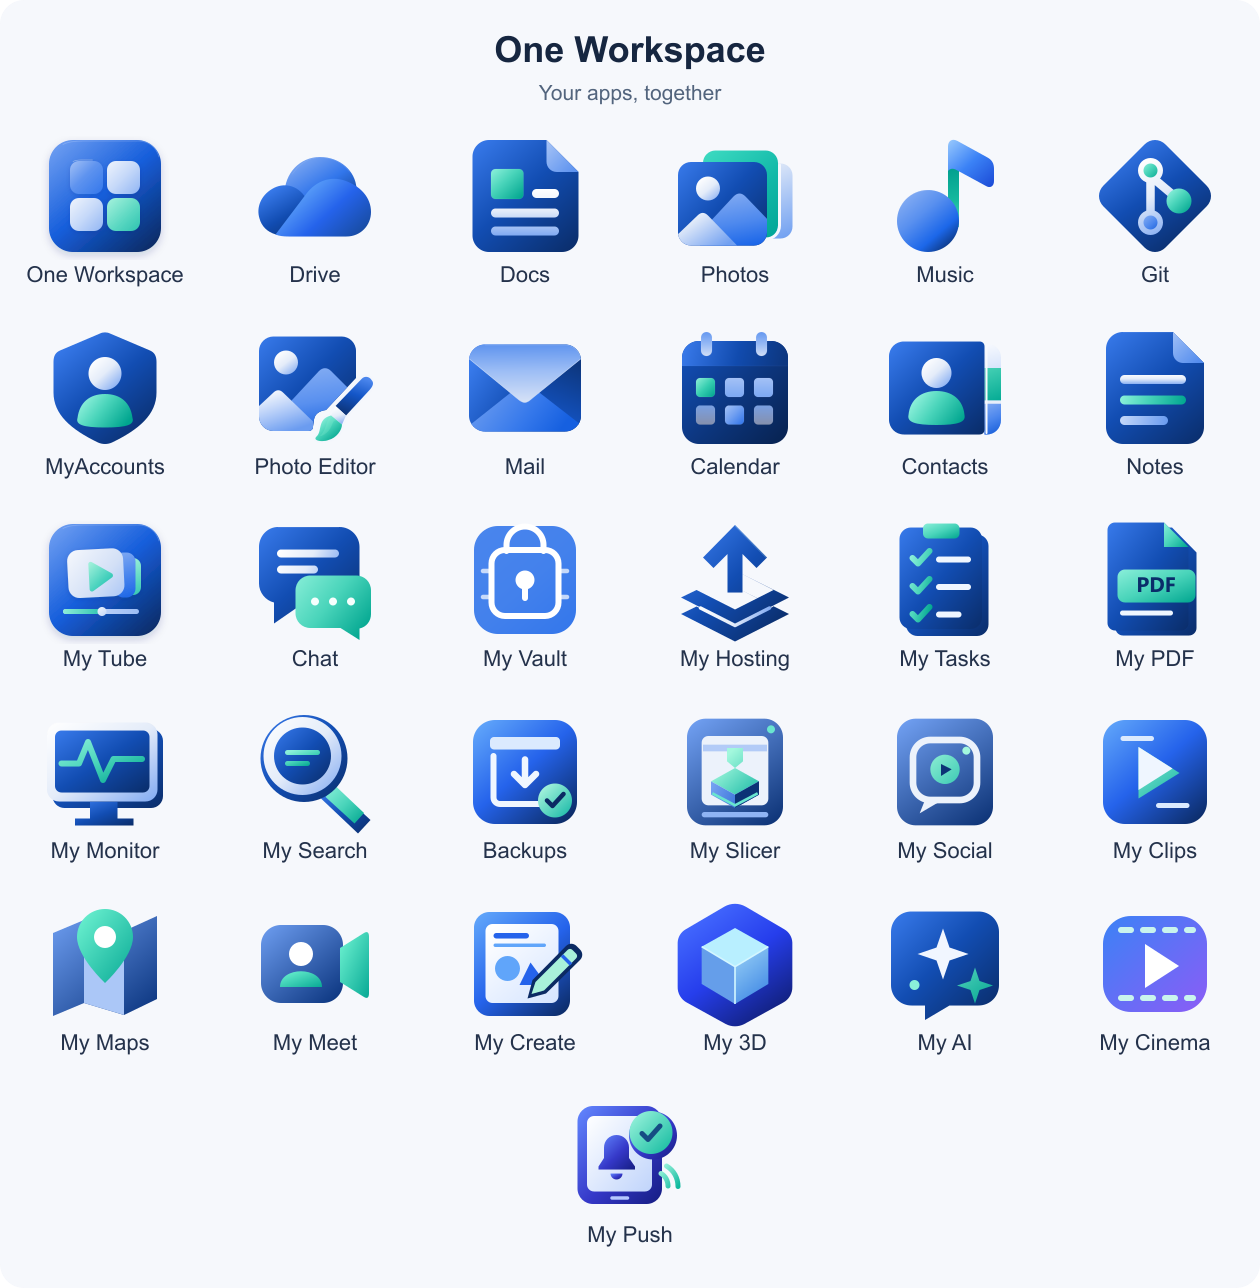
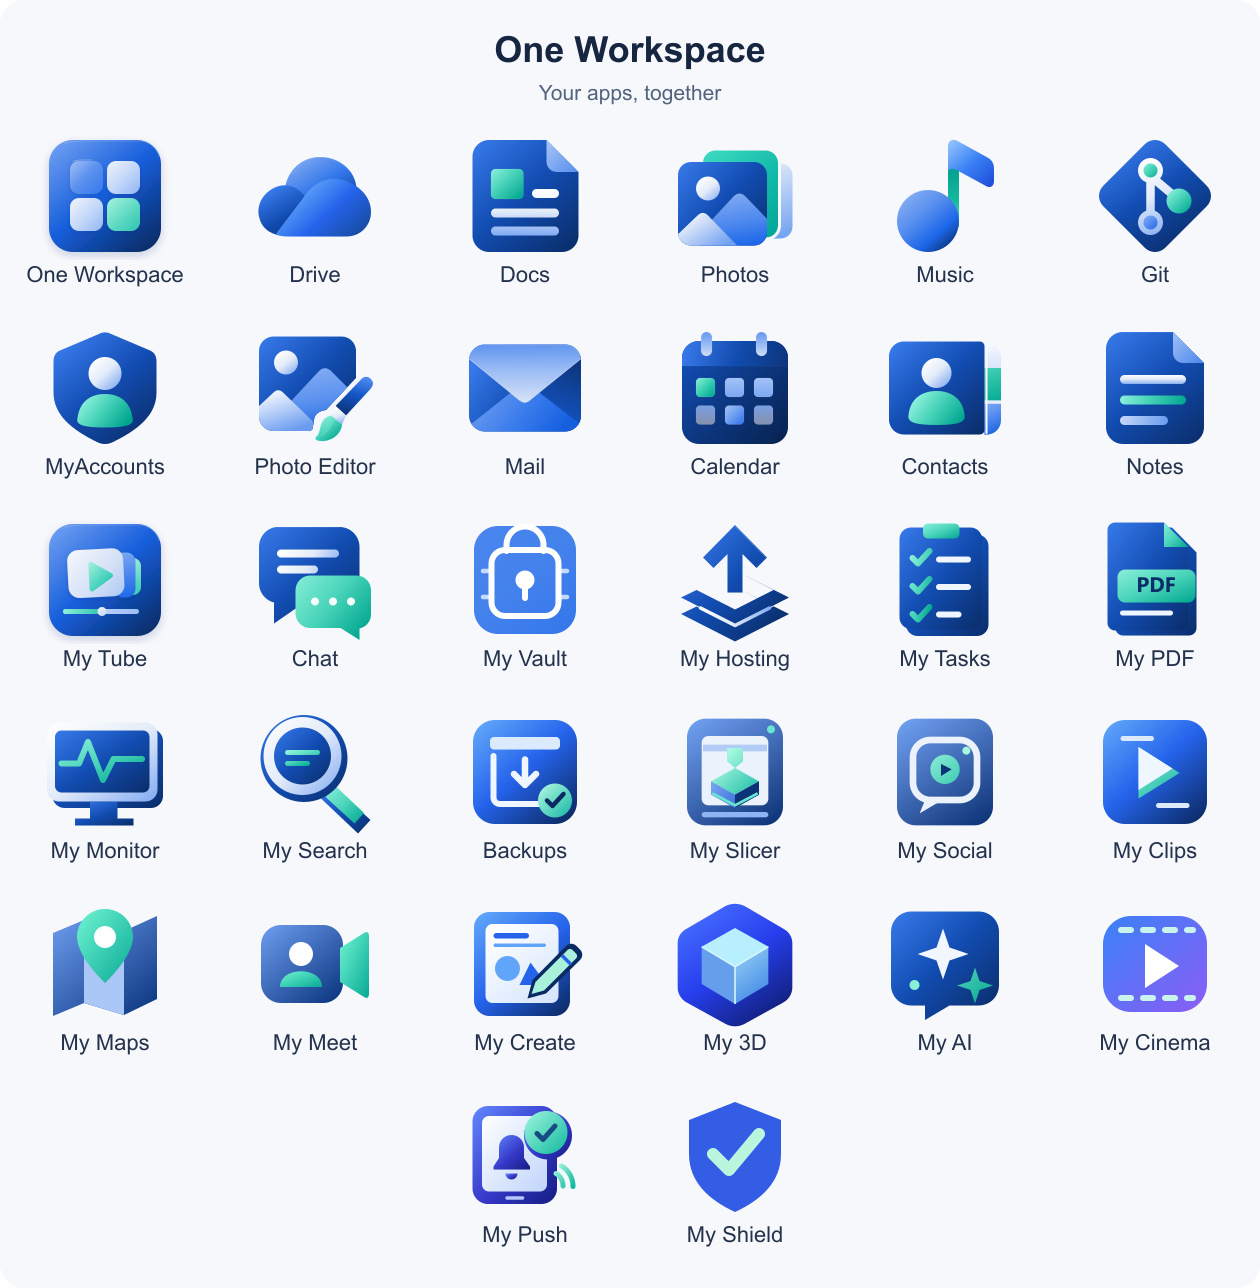
Integrate My Shield with Workspace launch, OneAccount and protected updates

Changed region(s): [[0.3714, 0.8385, 0.619, 0.9627]]

diff --git a/docs/branding/index.html b/docs/branding/index.html
@@ -2,6 +2,6 @@
 <html lang="en"><head><meta charset="utf-8"><meta name="viewport" content="width=device-width,initial-scale=1"><title>One Workspace logos</title><link rel="icon" href="../../internal/branding/icons/one_workspace.svg"><style>
 *{box-sizing:border-box}body{margin:0;background:#f4f6fb;color:#17233b;font:16px system-ui,sans-serif}main{max-width:1180px;margin:40px auto;padding:0 26px}header{display:flex;gap:20px;align-items:center;margin-bottom:32px}header img{width:72px;height:72px}h1{font-size:32px;margin:0 0 8px;letter-spacing:-1px}p{margin:0;color:#65718a}.grid{display:grid;grid-template-columns:repeat(4,1fr);gap:20px}article{background:white;border:1px solid #dfe5ef;border-radius:18px;overflow:hidden}h2{font-size:16px;margin:20px}.samples{display:flex;align-items:center;justify-content:center;gap:18px;height:136px;background:repeating-conic-gradient(#edf0f6 0% 25%,white 0% 50%) 50%/20px 20px}.samples img{width:80px;height:80px}.dark{background:#11182a}.small{display:flex;align-items:center;gap:14px;padding:20px;color:#7b879b;font-size:12px}.small img{flex:none}@media(max-width:850px){.grid{grid-template-columns:repeat(2,1fr)}}@media(max-width:450px){.grid{grid-template-columns:1fr}}
 </style></head><body><main><header><img src="../../internal/branding/icons/one_workspace.svg" alt=""><div><h1>One Workspace</h1><p>The complete app collection · shared blue artwork</p></div></header><div class="grid" id="logos"></div></main><script>
-const apps=[["one_workspace","One Workspace"],["my_drive","Drive"],["my_office","Docs"],["my_photos","Photos"],["my_music","Music"],["my_git","Git"],["my_accounts","MyAccounts"],["photo_editor","Photo Editor"],["my_mail","Mail"],["my_calendar","Calendar"],["my_contacts","Contacts"],["my_notes","Notes"],["my_tube","My Tube"],["my_chat","Chat"],["my_vault","My Vault"],["my_hosting","My Hosting"],["my_tasks","My Tasks"],["my_pdf","My PDF"],["my_monitor","My Monitor"],["my_search","My Search"],["backups","Backups"],["my_slicer","My Slicer"],["my_social","My Social"],["my_clips","My Clips"],["my_maps","My Maps"],["my_meet","My Meet"],["my_create","My Create"],["my_3d","My 3D"],["my_ai","My AI"],["my_cinema","My Cinema"],["my_push","My Push"]];
+const apps=[["one_workspace","One Workspace"],["my_drive","Drive"],["my_office","Docs"],["my_photos","Photos"],["my_music","Music"],["my_git","Git"],["my_accounts","MyAccounts"],["photo_editor","Photo Editor"],["my_mail","Mail"],["my_calendar","Calendar"],["my_contacts","Contacts"],["my_notes","Notes"],["my_tube","My Tube"],["my_chat","Chat"],["my_vault","My Vault"],["my_hosting","My Hosting"],["my_tasks","My Tasks"],["my_pdf","My PDF"],["my_monitor","My Monitor"],["my_search","My Search"],["backups","Backups"],["my_slicer","My Slicer"],["my_social","My Social"],["my_clips","My Clips"],["my_maps","My Maps"],["my_meet","My Meet"],["my_create","My Create"],["my_3d","My 3D"],["my_ai","My AI"],["my_cinema","My Cinema"],["my_push","My Push"],["my_shield","My Shield"]];
 document.querySelector('#logos').innerHTML=apps.map(([file,name])=>`<article><h2>${name}</h2><div class="samples"><img src="../../internal/branding/icons/${file}.svg" alt="${name}"></div><div class="samples dark"><img src="../../internal/branding/icons/${file}.svg" alt=""></div><div class="small"><img src="${file}-32.png" width="16" height="16" alt=""><img src="${file}-32.png" width="24" height="24" alt=""><img src="${file}-32.png" width="32" height="32" alt=""><span>16 · 24 · 32</span></div></article>`).join('');
 </script></body></html>

diff --git a/internal/suite/shield_test.go b/internal/suite/shield_test.go
@@ -1,0 +1,45 @@
+package suite
+
+import (
+	"path/filepath"
+	"strings"
+	"testing"
+
+	"github.com/oneworkspacestudio/one-workspace/internal/branding"
+	"github.com/oneworkspacestudio/one-workspace/internal/catalog"
+)
+
+func TestShieldManagedOwnerAndStorageContract(t *testing.T) {
+	a := catalog.App{ID: "shield", Name: "My Shield", Kind: "process", Package: "shield", Executable: "MyShield.exe", Port: 9022, Route: "/shield", OIDC: true, Callback: "/shield/auth/callback", Args: []string{"--data", "${DATA}/shield", "--listen", "127.0.0.1:${PORT}", "--origin", "${ORIGIN}/shield", "--no-browser"}}
+	c := NewConfig(Request{Programs: filepath.Join(t.TempDir(), "Programs"), Data: filepath.Join(t.TempDir(), "Private"), Files: filepath.Join(t.TempDir(), "Files"), Port: 23900, Mode: "local"}, catalog.Catalog{Apps: []catalog.App{a}})
+	c.Owner = "synthetic-owner-subject"
+	a = c.Catalog.Apps[0]
+	if a.Port != 23932 || !foundationApp("shield") || appWorkingDir(c, "shield") != filepath.Join(c.Data, "shield") || !knownUpdateStorageProfile("shield") {
+		t.Fatal("Shield is not a managed, separately stored application")
+	}
+	paths := appUpdatePrivatePaths("shield")
+	if len(paths) != 1 || paths[0] != "shield" || preservedUpdateData("shield/state.sqlite") || preservedUpdateData("shield/state.sqlite-wal") {
+		t.Fatal("Shield state must remain inside verified update recovery")
+	}
+	rt := &Runtime{Config: c, Secrets: Secrets{Clients: map[string]Client{"shield": {ID: "synthetic-shield", Secret: "synthetic-secret"}}}}
+	cmd := rt.command(a)
+	for _, want := range []string{"WORKSPACE_OWNER_SUBJECT=" + c.Owner, "WORKSPACE_HOME_URL=" + c.Origin, "WORKSPACE_OIDC_ISSUER=" + c.Issuer, "WORKSPACE_OIDC_REDIRECT_URI=" + c.Origin + "/shield/auth/callback", "MYSHIELD_LAB=0"} {
+		found := false
+		for _, got := range cmd.Env {
+			found = found || got == want
+		}
+		if !found {
+			t.Fatal("missing managed identity/environment contract")
+		}
+	}
+	if !strings.Contains(strings.Join(cmd.Args, " "), c.Origin+"/shield") || cmd.Dir != filepath.Join(c.Data, "shield") {
+		t.Fatal("managed origin or working directory is wrong")
+	}
+	p := &Portal{rt: rt}
+	if len(p.tiles(false)) != 0 || len(p.tiles(true)) != 2 {
+		t.Fatal("host security controls must be visible only to the owner, alongside Backups")
+	}
+	if branding.Icon("shield") == branding.Icon("unknown") {
+		t.Fatal("Shield icon not registered")
+	}
+}

diff --git a/internal/suite/four_apps_test.go b/internal/suite/four_apps_test.go
@@ -58,17 +58,17 @@ func TestFoundationSignOutRevokesEachCapturedBrowserSession(t *testing.T) {
 	defer server.Close()
 	_, port, _ := net.SplitHostPort(strings.TrimPrefix(server.URL, "http://"))
 	n, _ := strconv.Atoi(port)
-	rt := &Runtime{Config: Config{Origin: "http://localhost:29000", Catalog: catalog.Catalog{Apps: []catalog.App{{ID: "tasks", Port: n}, {ID: "pdf", Port: n}}}}}
-	p := &Portal{rt: rt, sessions: map[string]session{"fixture-portal": {Subject: "owner", Expires: time.Now().Add(time.Hour), AppSessions: map[string]string{"tasks": strings.Repeat("a", 96), "pdf": strings.Repeat("b", 96)}}}}
+	rt := &Runtime{Config: Config{Origin: "http://localhost:29000", Catalog: catalog.Catalog{Apps: []catalog.App{{ID: "tasks", Port: n}, {ID: "pdf", Port: n}, {ID: "shield", Port: n}}}}}
+	p := &Portal{rt: rt, sessions: map[string]session{"fixture-portal": {Subject: "owner", Expires: time.Now().Add(time.Hour), AppSessions: map[string]string{"tasks": strings.Repeat("a", 96), "pdf": strings.Repeat("b", 96), "shield": strings.Repeat("c", 96)}}}}
 	r := httptest.NewRequest("POST", "http://localhost:29000/auth/logout", nil)
 	r.AddCookie(&http.Cookie{Name: "workspace_session", Value: "fixture-portal"})
 	p.closeFoundationSessions(r)
-	if count != 2 {
+	if count != 3 {
 		t.Fatal("sessions not revoked", count)
 	}
 	w := httptest.NewRecorder()
 	clearAppCookies(w, r, false)
-	for _, id := range []string{"tasks", "pdf", "monitor", "search"} {
+	for _, id := range []string{"tasks", "pdf", "monitor", "search", "shield"} {
 		found := false
 		for _, cookie := range w.Result().Cookies() {
 			if cookie.Name == id+"_session" && cookie.Path == "/"+id+"/" && cookie.MaxAge < 0 {

diff --git a/internal/suite/runtime.go b/internal/suite/runtime.go
@@ -194,9 +194,14 @@ func (rt *Runtime) command(app catalog.App) *exec.Cmd {
 			cmd.Env = append(cmd.Env, "WORKSPACE_MUSIC_DIR="+filepath.Join(c.Files, "Music"), "WORKSPACE_BASE_PATH="+strings.TrimRight(app.Route, "/"), "WORKSPACE_OWNER_SUBJECT="+c.Owner)
 			cmd.Env = append(cmd.Env, "TEMP="+musicRuntimeTemp(c), "TMP="+musicRuntimeTemp(c))
 		}
+		if app.ID == "shield" {
+			cmd.Env = append(cmd.Env, "MYSHIELD_LAB=0")
+		}
 		if foundationApp(app.ID) {
 			cmd.Env = append(cmd.Env, "WORKSPACE_OWNER_SUBJECT="+c.Owner, "WORKSPACE_HOME_URL="+c.Origin)
-			if app.ID == "push" { cmd.Env = append(cmd.Env, pushEnvironment(c,s)... ) }
+			if app.ID == "push" {
+				cmd.Env = append(cmd.Env, pushEnvironment(c, s)...)
+			}
 			if app.ID == "monitor" {
 				cmd.Env = append(cmd.Env, fmt.Sprintf("WORKSPACE_REGISTRY_URL=http://127.0.0.1:%d/_integration/monitor", c.Port), "WORKSPACE_REGISTRY_TOKEN="+monitorCapability(client.Secret))
 			}
@@ -217,7 +222,7 @@ func (rt *Runtime) command(app catalog.App) *exec.Cmd {
 			}
 		}
 		if app.ID == "chat" {
-			cmd.Env = append(cmd.Env, pushEnvironment(c,s)... )
+			cmd.Env = append(cmd.Env, pushEnvironment(c, s)...)
 			cmd.Env = append(cmd.Env, "WORKSPACE_CHAT_DIRECTORY_TOKEN="+rt.chatDirectoryToken)
 			cmd.Env = append(cmd.Env, "WORKSPACE_HOME_URL="+c.Origin, fmt.Sprintf("WORKSPACE_CHAT_CATALOG_URL=http://127.0.0.1:%d/_integration/chat/catalog", c.Port))
 			cmd.Env = append(cmd.Env, "WORKSPACE_OIDC_REDIRECT_URI="+chatOrigin(c)+"/auth/callback")

diff --git a/scripts/publish-update-index.py b/scripts/publish-update-index.py
@@ -44,6 +44,17 @@ def main():
     withheld = withheld_releases()
     for name in repos:
         repo = ORG + '/' + name
+        # A private app may be distributed in a public Workspace bundle without
+        # publishing its private release metadata or unusable download links.
+        metadata_req = urllib.request.Request('https://api.github.com/repos/' + repo,
+            headers={'Authorization': 'Bearer ' + token, 'User-Agent': 'OneWorkspaceChannelPublisher',
+                'Accept': 'application/vnd.github+json'})
+        with urllib.request.urlopen(metadata_req, timeout=60) as response:
+            metadata = json.load(response)
+        if metadata.get('private', True):
+            repositories[repo] = []
+            print(repo, 'private source; distributed through Workspace bundles', flush=True)
+            continue
         req = urllib.request.Request('https://api.github.com/repos/' + repo + '/releases?per_page=100',
             headers={'Authorization': 'Bearer ' + token, 'User-Agent': 'OneWorkspaceChannelPublisher',
                 'Accept': 'application/vnd.github+json', 'X-GitHub-Api-Version': '2022-11-28'})

diff --git a/internal/suite/update_metadata.go b/internal/suite/update_metadata.go
@@ -156,7 +156,7 @@ func validateUpdateMetadata(c Config, p *UpdateMetadataPolicy) error {
 
 func knownUpdateStorageProfile(id string) bool {
 	switch id {
-	case "accounts", "drive", "docs", "photos", "studio", "gitea", "music", "mail", "calendar", "contacts", "notes", "my-tube", "chat", "hosting", "vault", "slicer", "tasks", "pdf", "monitor", "search", "maps", "meet", "create", "my3d", "cinema", "myai", "clips", "social", "push":
+	case "accounts", "drive", "docs", "photos", "studio", "gitea", "music", "mail", "calendar", "contacts", "notes", "my-tube", "chat", "hosting", "vault", "slicer", "tasks", "pdf", "monitor", "search", "maps", "meet", "create", "my3d", "cinema", "myai", "clips", "social", "push", "shield":
 		return true
 	}
 	return false

diff --git a/internal/distribution/updates.go b/internal/distribution/updates.go
@@ -89,6 +89,7 @@ type updateGroup struct {
 }
 
 var updateGroups = []updateGroup{
+	{"shield", "My Shield", "my-shield", []string{"shield"}},
 	{"push", "My Push", "my-push", []string{"push"}},
 	{"maps", "My Maps", "my-maps", []string{"maps"}},
 	{"cinema", "My Cinema", "my-cinema", []string{"cinema"}},
@@ -282,7 +283,12 @@ func suiteUpdateGroups(latest catalog.Catalog) []updateGroup {
 	return groups
 }
 func updatePackageOwner(id string) string {
-	if id=="push"||strings.HasPrefix(id,"push-"){return "push"}
+	if id == "shield" || strings.HasPrefix(id, "shield-") {
+		return "shield"
+	}
+	if id == "push" || strings.HasPrefix(id, "push-") {
+		return "push"
+	}
 	if strings.HasPrefix(id, "msvc-") {
 		return "workspace"
 	}

diff --git a/internal/catalog/selection.go b/internal/catalog/selection.go
@@ -93,7 +93,7 @@ func InstallPackageIDs(c Catalog, selected map[string]bool) map[string]bool {
 		}
 	}
 	for id, p := range c.Packages {
-		if strings.HasPrefix(filepath.ToSlash(p.File), "licenses/") || (selected["vault"] && strings.HasPrefix(id, "vault-")) || (selected["cinema"] && strings.HasPrefix(id, "cinema-")) || (selected["myai"] && strings.HasPrefix(id, "myai-")) {
+		if strings.HasPrefix(filepath.ToSlash(p.File), "licenses/") || (selected["vault"] && strings.HasPrefix(id, "vault-")) || (selected["cinema"] && strings.HasPrefix(id, "cinema-")) || (selected["myai"] && strings.HasPrefix(id, "myai-")) || (selected["shield"] && strings.HasPrefix(id, "shield-")) {
 			keep[id] = true
 		}
 	}

diff --git a/internal/suite/navigation.go b/internal/suite/navigation.go
@@ -99,7 +99,7 @@ func clearAppCookies(w http.ResponseWriter, r *http.Request, secure bool) {
 		"access_token_cookie": {"/", "/music/"}, "csrf_access_token": {"/", "/music/"}, "swingmusic_oidc": {"/", "/music/"},
 		"workspace_gitea": {"/", "/git", "/git/"},
 	}
-	for _, id := range []string{"push", "cinema", "myai", "my3d", "create", "maps", "meet", "clips", "social", "slicer", "tasks", "pdf", "monitor", "search"} {
+	for _, id := range []string{"shield", "push", "cinema", "myai", "my3d", "create", "maps", "meet", "clips", "social", "slicer", "tasks", "pdf", "monitor", "search"} {
 		names[id+"_session"] = []string{"/", "/" + id + "/"}
 		names[id+"_login"] = []string{"/", "/" + id + "/"}
 	}

diff --git a/internal/suite/seamless.go b/internal/suite/seamless.go
@@ -22,6 +22,7 @@ type appSignIn struct {
 
 var suiteSignIns = []appSignIn{
 	{"push", "My Push", "/push", "/api/me", "/push/auth/login", "/push/auth/logout", []string{"push_session"}},
+	{"shield", "My Shield", "/shield", "/api/me", "/shield/auth/login", "/shield/auth/logout", []string{"shield_session"}},
 	{"cinema", "My Cinema", "/cinema", "/api/me", "/cinema/auth/login", "/cinema/auth/logout", []string{"cinema_session"}},
 	{"myai", "My AI", "/myai", "/api/me", "/myai/auth/login", "/myai/auth/logout", []string{"myai_session"}},
 	{"my3d", "My 3D", "/my3d", "/api/me", "/my3d/auth/login", "/my3d/auth/logout", []string{"my3d_session"}},

diff --git a/internal/suite/runtime_storage.go b/internal/suite/runtime_storage.go
@@ -12,8 +12,8 @@ func appWorkingDir(c Config, app string) string {
 	switch app {
 	case "cinema", "myai", "my3d", "create", "maps", "meet", "clips", "social", "slicer", "tasks", "pdf", "monitor", "search", "accounts", "drive", "photos", "gitea", "music", "mail", "calendar", "contacts", "notes", "my-tube", "chat":
 		return filepath.Join(c.Data, app)
-	case "push":
-		return filepath.Join(c.Data, "push")
+	case "push", "shield":
+		return filepath.Join(c.Data, app)
 	case "hosting":
 		return filepath.Join(c.Data, "my-hosting")
 	case "vault":

diff --git a/internal/suite/portal.go b/internal/suite/portal.go
@@ -491,7 +491,7 @@ var appUnavailable = template.Must(template.New("app-unavailable").Parse(`<!doct
 func (p *Portal) tiles(owner ...bool) []catalogTile {
 	tiles := []catalogTile{}
 	for _, a := range p.rt.Config.Catalog.Apps {
-		if a.ID == "monitor" && (len(owner) == 0 || !owner[0]) {
+		if (a.ID == "monitor" || a.ID == "shield") && (len(owner) == 0 || !owner[0]) {
 			continue // Infrastructure controls are only available to the owner.
 		}
 		link := "/_workspace/open/" + a.ID
